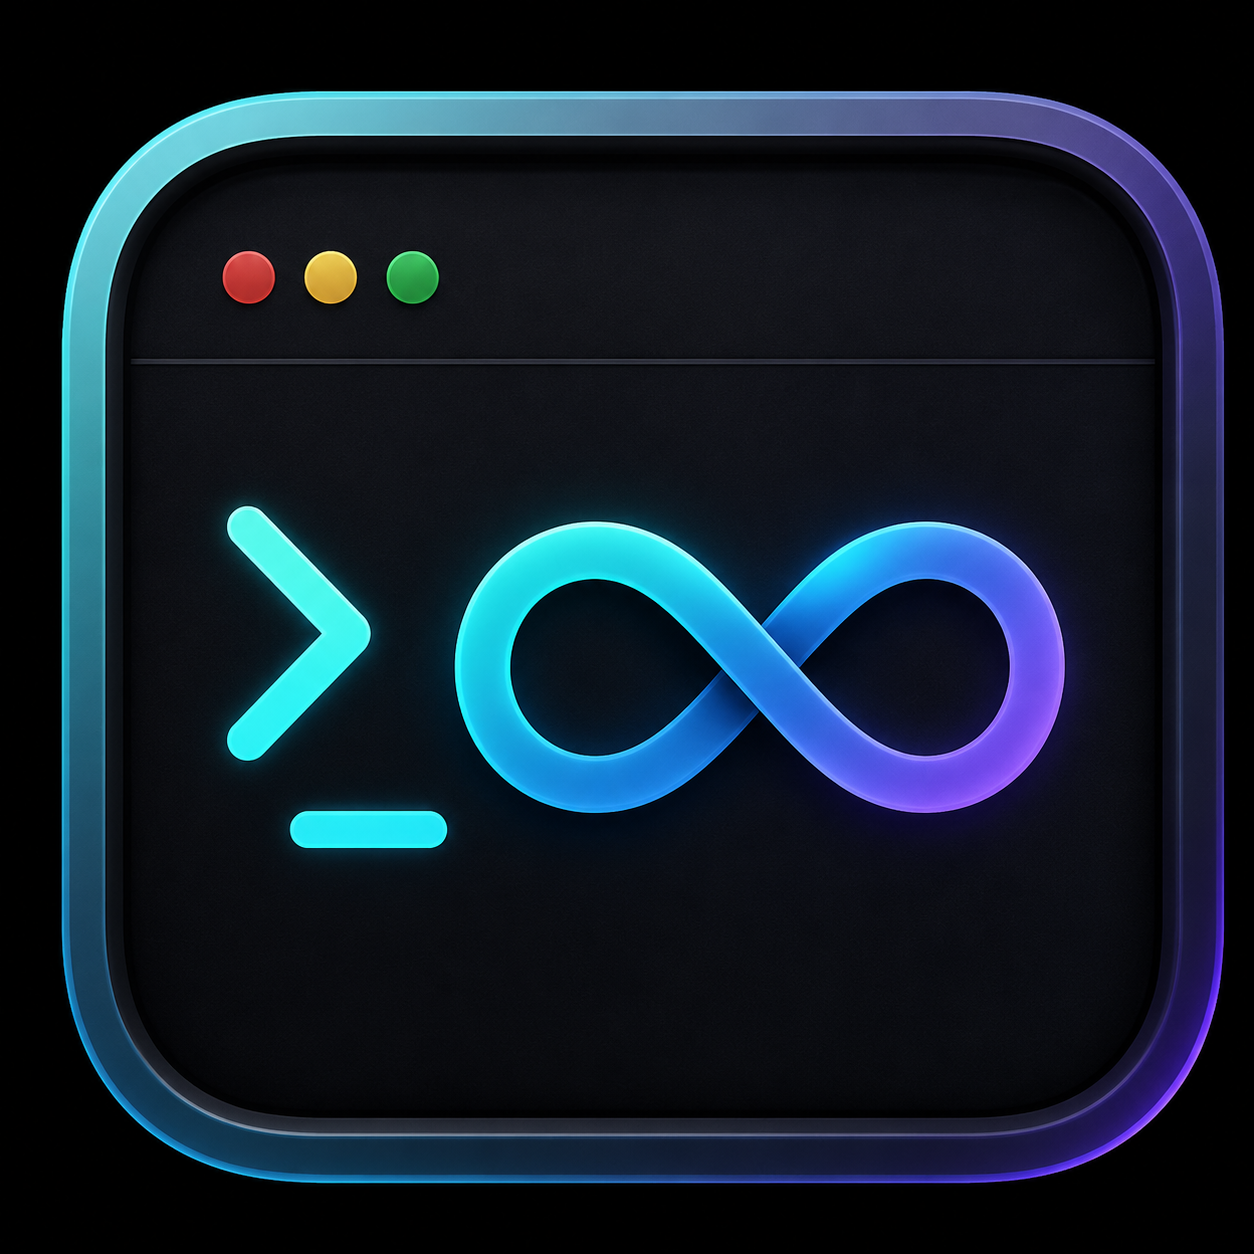
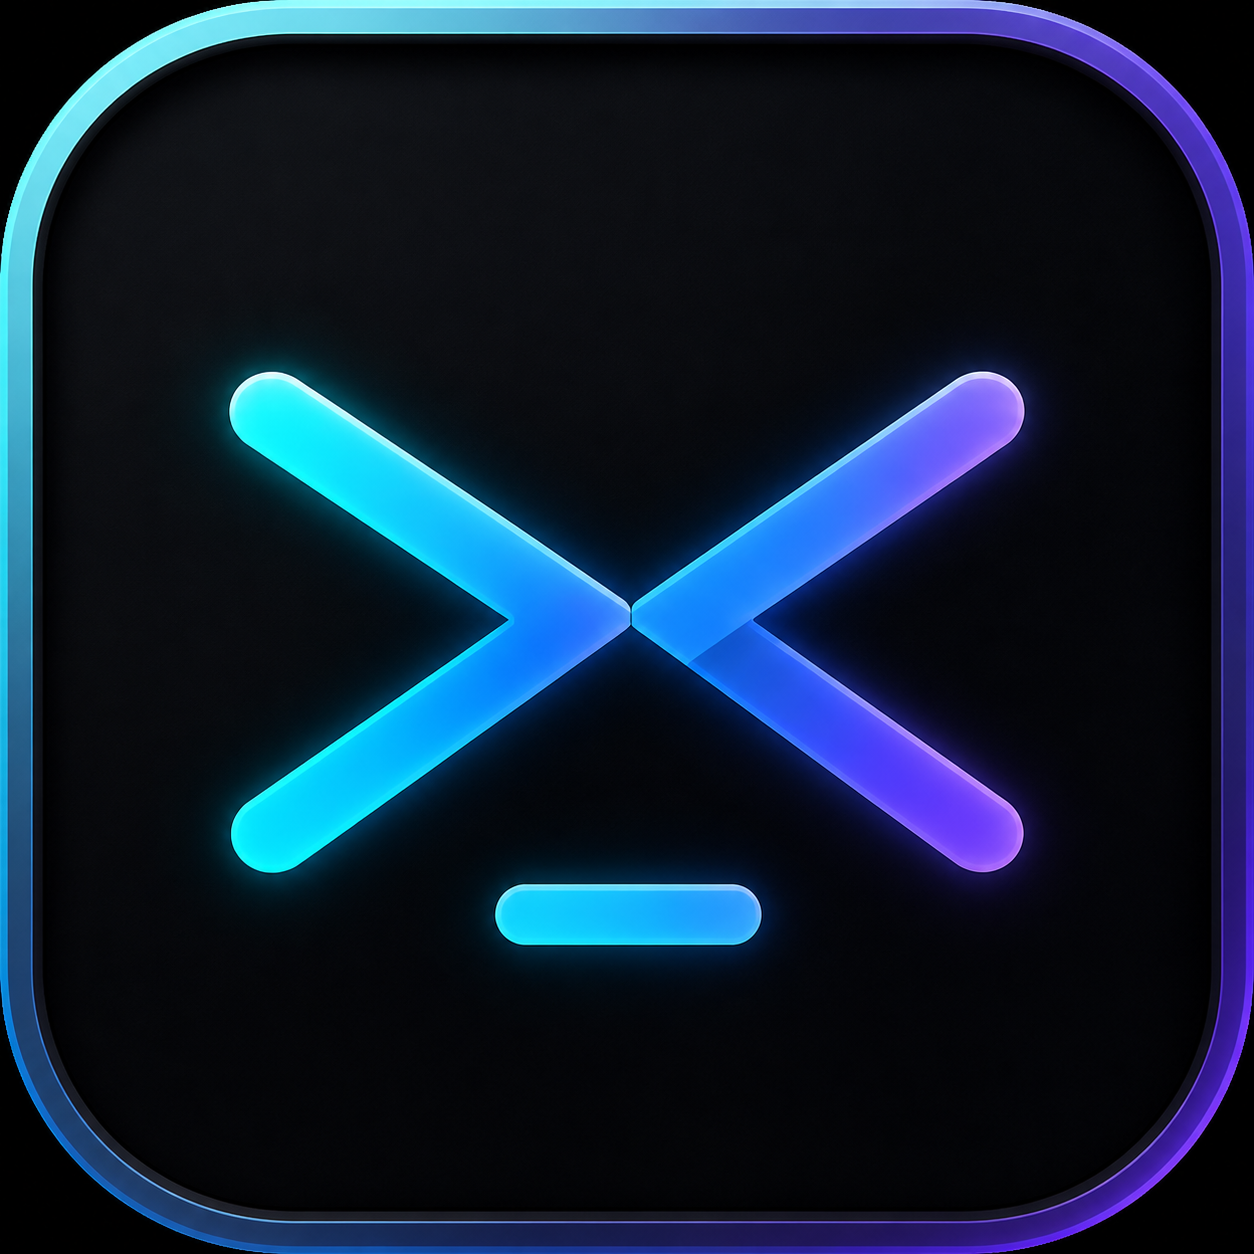
Add built-in Infinitty pet and GPU safety fixes
- Ship a bundled `infinitty` spritesheet/pet.json enabled by default (`pet = infinitty`); `pet = none` explicitly disables it and survives config rewrites
- Resolve Pet lookup via Bundle.main (packaged app) and Bundle.module (SwiftPM) before falling back to ~/.codex/pets
- Move GPU work off the AppKit main thread: renderNow() now posts to the render thread and coalesces repeats instead of blocking with waitUntilScheduled
- Drop renderLock across drawable/inflight waits to prevent deadlocks with applyConfig/updateScale callers
- Bound inflight semaphore wait (100 ms) so a saturated GPU drops frames rather than stalling the render thread
- Shrink SO_SNDTIMEO to 10 ms and treat short writes as fatal, pruning stalled event subscribers under the lock to avoid double-close on reused fds
- Add ConfigTests for default pet and opt-out round-trip serialization

diff --git a/Sources/InfinittyKit/Renderer.swift b/Sources/InfinittyKit/Renderer.swift
@@ -85,6 +85,7 @@ final class Renderer: NSObject {
     private var renderThread: Thread?
     private var renderRunLoop: CFRunLoop?
     private let linkPaused = OSAllocatedUnfairLock(initialState: false)
+    private let resizeRenderPending = OSAllocatedUnfairLock(initialState: false)
 
     private(set) var config: AppConfig
     var insetPoints: CGFloat { config.margin }
@@ -262,7 +263,7 @@ final class Renderer: NSObject {
         renderLock.unlock()
         if petNeedsFrame {
             idleTicks = 0
-            render(sync: false)
+            render()
             return
         }
         if gen == lastGen {
@@ -281,13 +282,26 @@ final class Renderer: NSObject {
             return
         }
         idleTicks = 0
-        render(sync: false)
+        render()
     }
 
-    /// Synchronous render for live resize: encode, wait for schedule, present.
-    /// Keeps the drawable glued to the window during resize — no jelly.
-    func renderNow(sync: Bool) {
-        render(sync: sync)
+    /// Live-resize frame request from AppKit main. Hands off to the render
+    /// thread and coalesces repeats: AppKit main NEVER acquires drawables or
+    /// waits on the GPU, so when another process saturates the GPU we drop
+    /// resize frames instead of freezing keyboard/mouse input.
+    func renderNow() {
+        guard let rl = renderRunLoop else { return }
+        let shouldSchedule = resizeRenderPending.withLock { pending -> Bool in
+            if pending { return false }
+            pending = true
+            return true
+        }
+        guard shouldSchedule else { return }
+        CFRunLoopPerformBlock(rl, CFRunLoopMode.commonModes.rawValue) { [weak self] in
+            self?.resizeRenderPending.withLock { $0 = false }
+            self?.render()
+        }
+        CFRunLoopWakeUp(rl)
     }
 
     /// Rebuild the glyph atlas (display scale change).
@@ -311,20 +325,51 @@ final class Renderer: NSObject {
 
     // MARK: - frame
 
-    private func render(sync: Bool) {
+    private func render() {
+        // Only CPU-side state under renderLock: a consistent snapshot for the
+        // encode below. The lock is NEVER held across a GPU wait —
+        // nextDrawable()/inflight can block arbitrarily long on a saturated
+        // GPU, and every main-thread caller (applyConfig, updateScale,
+        // petHitRect) takes renderLock.
         renderLock.lock()
-        defer { renderLock.unlock() }
-
         let drawableSize = layer.drawableSize
-        guard drawableSize.width >= 1, drawableSize.height >= 1 else { return }
-
+        guard drawableSize.width >= 1, drawableSize.height >= 1 else {
+            renderLock.unlock()
+            return
+        }
         let gen = terminal.copySnapshot(into: &snap)
         buildInstances()
+        let atlas = self.atlas
+        let theme = self.theme
+        let insetPoints = self.insetPoints
+        let topInsetPoints = self.topInsetPoints
+        let petTexture = self.petTexture
+        let petSizePoints = self.petSizePoints
+        let petFrame = self.petFrame
+        let drewPet = petDirty
+        petDirty = false
+        renderLock.unlock()
 
-        inflight.wait()
+        // GPU section (render thread only). Bound the wait for a free
+        // in-flight slot: a saturated GPU must make us drop frames, never
+        // stall a thread. On early exit, restore petDirty so tick() retries
+        // a pet frame we captured but never presented.
+        guard inflight.wait(timeout: .now() + .milliseconds(100)) == .success else {
+            if drewPet {
+                renderLock.lock()
+                petDirty = true
+                renderLock.unlock()
+            }
+            return
+        }
         guard let drawable = layer.nextDrawable(),
               let cb = queue.makeCommandBuffer() else {
             inflight.signal()
+            if drewPet {
+                renderLock.lock()
+                petDirty = true
+                renderLock.unlock()
+            }
             return
         }
 
@@ -348,6 +393,11 @@ final class Renderer: NSObject {
 
         guard let enc = cb.makeRenderCommandEncoder(descriptor: pass) else {
             inflight.signal()
+            if drewPet {
+                renderLock.lock()
+                petDirty = true
+                renderLock.unlock()
+            }
             return
         }
         var viewport = SIMD2<Float>(Float(drawableSize.width), Float(drawableSize.height))
@@ -413,19 +463,16 @@ final class Renderer: NSObject {
                 color: SIMD4<Float>(1, 1, 1, 1)
             ), texture: petTex)
         }
-        petDirty = false
         enc.endEncoding()
 
         cb.addCompletedHandler { [inflight] _ in inflight.signal() }
-        if sync {
-            cb.commit()
-            cb.waitUntilScheduled()
-            drawable.present()
-        } else {
-            cb.present(drawable)
-            cb.commit()
-        }
+        // Present tied to command-buffer completion. Never waitUntilScheduled:
+        // an unbounded GPU wait here wedges every later frame.
+        cb.present(drawable)
+        cb.commit()
+        renderLock.lock()
         lastGen = gen
+        renderLock.unlock()
     }
 
     private func fill<T>(_ buffer: inout MTLBuffer?, with data: [T]) -> MTLBuffer? {

diff --git a/Sources/InfinittyKit/AppControlServer.swift b/Sources/InfinittyKit/AppControlServer.swift
@@ -95,15 +95,21 @@ final class AppControlServer {
     }
 
     /// Push a JSON event line to every subscriber (called from main).
+    /// Subscriber sockets carry a short SO_SNDTIMEO (set at subscribe time),
+    /// so each write returns within milliseconds; slow or dead readers are
+    /// pruned here. A stalled subscriber can never park AppKit behind
+    /// write(2). Removal and close happen under the lock, so teardown in the
+    /// subscribe handler never double-closes a pruned (and possibly reused)
+    /// descriptor.
     func broadcast(_ object: [String: Any]) {
         guard let data = try? JSONSerialization.data(withJSONObject: object) else { return }
-        var line = Array(data)
-        line.append(0x0A)
+        let line = Array(data) + [0x0A]
         subscriberLock.lock()
         var dead: [Int32] = []
         for fd in subscribers {
             let n = line.withUnsafeBufferPointer { write(fd, $0.baseAddress!, $0.count) }
-            if n <= 0 { dead.append(fd) }
+            // Short write = corrupt event line for that client: prune it.
+            if n != line.count { dead.append(fd) }
         }
         if !dead.isEmpty {
             for fd in dead { close(fd) }
@@ -151,9 +157,10 @@ final class AppControlServer {
         let request = String(decoding: line, as: UTF8.self)
 
         if request == "subscribe" {
-            // Long-lived: 1 s send deadline so a stalled reader gets dropped,
-            // no receive deadline (we only write). Hold until client EOF.
-            var sndTv = timeval(tv_sec: 1, tv_usec: 0)
+            // Long-lived: millisecond send deadline so fanout on the main
+            // thread stays bounded and a stalled reader gets pruned; no
+            // receive deadline (we only write). Hold until client EOF.
+            var sndTv = timeval(tv_sec: 0, tv_usec: 10_000)
             setsockopt(fd, SOL_SOCKET, SO_SNDTIMEO, &sndTv, socklen_t(MemoryLayout<timeval>.size))
             var noTv = timeval(tv_sec: 0, tv_usec: 0)
             setsockopt(fd, SOL_SOCKET, SO_RCVTIMEO, &noTv, socklen_t(MemoryLayout<timeval>.size))
@@ -163,10 +170,15 @@ final class AppControlServer {
             subscriberLock.unlock()
             var drain = [UInt8](repeating: 0, count: 256)
             while read(fd, &drain, drain.count) > 0 {}
+            // Close only if we still own the fd: broadcast()/stop() prune
+            // (remove AND close) subscribers under the same lock, so an
+            // unconditional close here could hit a reused descriptor.
             subscriberLock.lock()
-            subscribers.removeAll { $0 == fd }
+            if let i = subscribers.firstIndex(of: fd) {
+                subscribers.remove(at: i)
+                close(fd)
+            }
             subscriberLock.unlock()
-            close(fd)
             return
         }
 

diff --git a/Sources/InfinittyKit/Pet.swift b/Sources/InfinittyKit/Pet.swift
@@ -74,6 +74,26 @@ enum Pet {
         let fm = FileManager.default
         let expanded = NSString(string: nameOrPath).expandingTildeInPath
 
+        if !nameOrPath.contains("/") {
+            let subdirectory = "Pets/\(nameOrPath.lowercased())"
+            // Packaged apps preserve the Pets/<name> directory.
+            if let bundled = Bundle.main.url(
+                forResource: "spritesheet",
+                withExtension: "webp",
+                subdirectory: subdirectory
+            ) {
+                return bundled.path
+            }
+            // SwiftPM flattens processed resources into its module bundle.
+            if nameOrPath.caseInsensitiveCompare("infinitty") == .orderedSame,
+               let bundled = Bundle.module.url(
+                   forResource: "spritesheet",
+                   withExtension: "webp"
+               ) {
+                return bundled.path
+            }
+        }
+
         var dirs: [String] = []
         if nameOrPath.contains("/") {
             var isDir: ObjCBool = false

diff --git a/Tests/InfinittyKitTests/ConfigTests.swift b/Tests/InfinittyKitTests/ConfigTests.swift
@@ -3,6 +3,20 @@ import XCTest
 @testable import InfinittyKit
 
 final class ConfigTests: XCTestCase {
+    func testBuiltInPetIsEnabledByDefault() {
+        XCTAssertEqual(AppConfig().pet, "infinitty")
+    }
+
+    func testPetOptOutParsesAndSurvivesSerialization() {
+        var config = AppConfig()
+        config.apply(fileContents: "pet = none")
+        XCTAssertNil(config.pet)
+
+        var reparsed = AppConfig()
+        reparsed.apply(fileContents: config.serialize())
+        XCTAssertNil(reparsed.pet)
+    }
+
     func testParsePaletteEntry() {
         XCTAssertEqual(AppConfig.parsePaletteEntry("4=#61AFEF")?.index, 4)
         XCTAssertEqual(AppConfig.parsePaletteEntry("4=#61AFEF")?.color, 0x61AFEF)

diff --git a/Sources/InfinittyKit/Config.swift b/Sources/InfinittyKit/Config.swift
@@ -42,7 +42,7 @@ struct AppConfig {
     var palette: [Int: UInt32] = [:] // index (0-255) -> 0xRRGGBB overrides
     var titlebarStyle = "native" // native | transparent | hidden
     var trafficLights = "circle" // circle | square | rectangle | diamond
-    var pet: String? // codex pet name (~/.codex/pets/<name>) or directory path
+    var pet: String? = "infinitty" // built-in name, codex pet name, or directory path
     var petScale: CGFloat = 0.5
     var petMode = "window" // window = one pet (follows focus) | pane = every split
     var backgroundOpacity: CGFloat = 1.0
@@ -192,7 +192,8 @@ struct AppConfig {
                     trafficLights = v
                 }
             case "pet", "codex-pet":
-                pet = value
+                let normalized = value.lowercased()
+                pet = ["none", "off", "false"].contains(normalized) ? nil : value
             case "pet-scale":
                 if let v = Double(value) { petScale = CGFloat(v) }
             case "pet-mode", "petmode":
@@ -318,6 +319,10 @@ struct AppConfig {
             out += "pet = \(p)\n"
             out += "pet-scale = \(Double(petScale))\n"
             if petMode != "window" { out += "pet-mode = pane\n" }
+        } else {
+            // The built-in pet is enabled by default, so an explicit opt-out
+            // must survive Settings rewrites and subsequent launches.
+            out += "pet = none\n"
         }
         if !agentGlow { out += "agent-glow = false\n" }
         // Settings rewrites the managed config. Do not perpetuate a malformed

diff --git a/Sources/InfinittyKit/TerminalView.swift b/Sources/InfinittyKit/TerminalView.swift
@@ -138,9 +138,10 @@ final class TerminalView: NSView {
         positionPaneShortcutHint()
         updateGeometry()
         if inLiveResize {
-            // Synchronous present keeps content glued to the window edge
-            // while dragging — the thing that makes resize feel instant.
-            renderer.renderNow(sync: true)
+            // Frame requests hop to the render thread (coalesced) — AppKit
+            // main never touches the GPU here, so a saturated GPU drops
+            // resize frames instead of freezing input.
+            renderer.renderNow()
         }
     }
 

diff --git a/Sources/InfinittyKit/Settings.swift b/Sources/InfinittyKit/Settings.swift
@@ -168,10 +168,11 @@ final class SettingsWindowController: NSWindowController {
         notchPopup.addItems(withTitles: ["builtin", "external", "primary", "all"])
 
         petPopup.addItem(withTitle: "none")
+        petPopup.addItem(withTitle: "infinitty")
         let codexHome = ProcessInfo.processInfo.environment["CODEX_HOME"]
             ?? NSString(string: "~/.codex").expandingTildeInPath
         if let pets = try? FileManager.default.contentsOfDirectory(atPath: "\(codexHome)/pets") {
-            for pet in pets.sorted() where !pet.hasPrefix(".") {
+            for pet in pets.sorted() where !pet.hasPrefix(".") && pet != "infinitty" {
                 petPopup.addItem(withTitle: pet)
             }
         }

diff --git a/Package.swift b/Package.swift
@@ -9,6 +9,7 @@ let package = Package(
         .target(
             name: "InfinittyKit",
             dependencies: ["CPty"],
+            resources: [.process("Resources")],
             swiftSettings: [
                 .unsafeFlags(["-Ounchecked"], .when(configuration: .release)),
             ]

diff --git a/README.md b/README.md
@@ -272,9 +272,10 @@ Font to use one everywhere.
   `circle | square | rectangle | diamond`
 - **Transparency**: `background-opacity = 0.9`, `background-blur = true`
   (frosted behind-window blur)
-- **Codex pets**: `pet = r2d2` renders your installed `~/.codex/pets`
-  spritesheets animated in the corner — idle loop normally, running loop
-  while output flows
+- **Built-in AI pet**: Infinitty's `>_<` face ships enabled by default and
+  changes expression as the terminal works, waits, succeeds, or fails. Set
+  `pet = none` to hide it, or `pet = r2d2` to use an installed
+  `~/.codex/pets` spritesheet instead
 - **Notch live activity**: `notch = true` shows a slim strip beside the
   MacBook notch with the running command and its exit status (OSC 133)
 